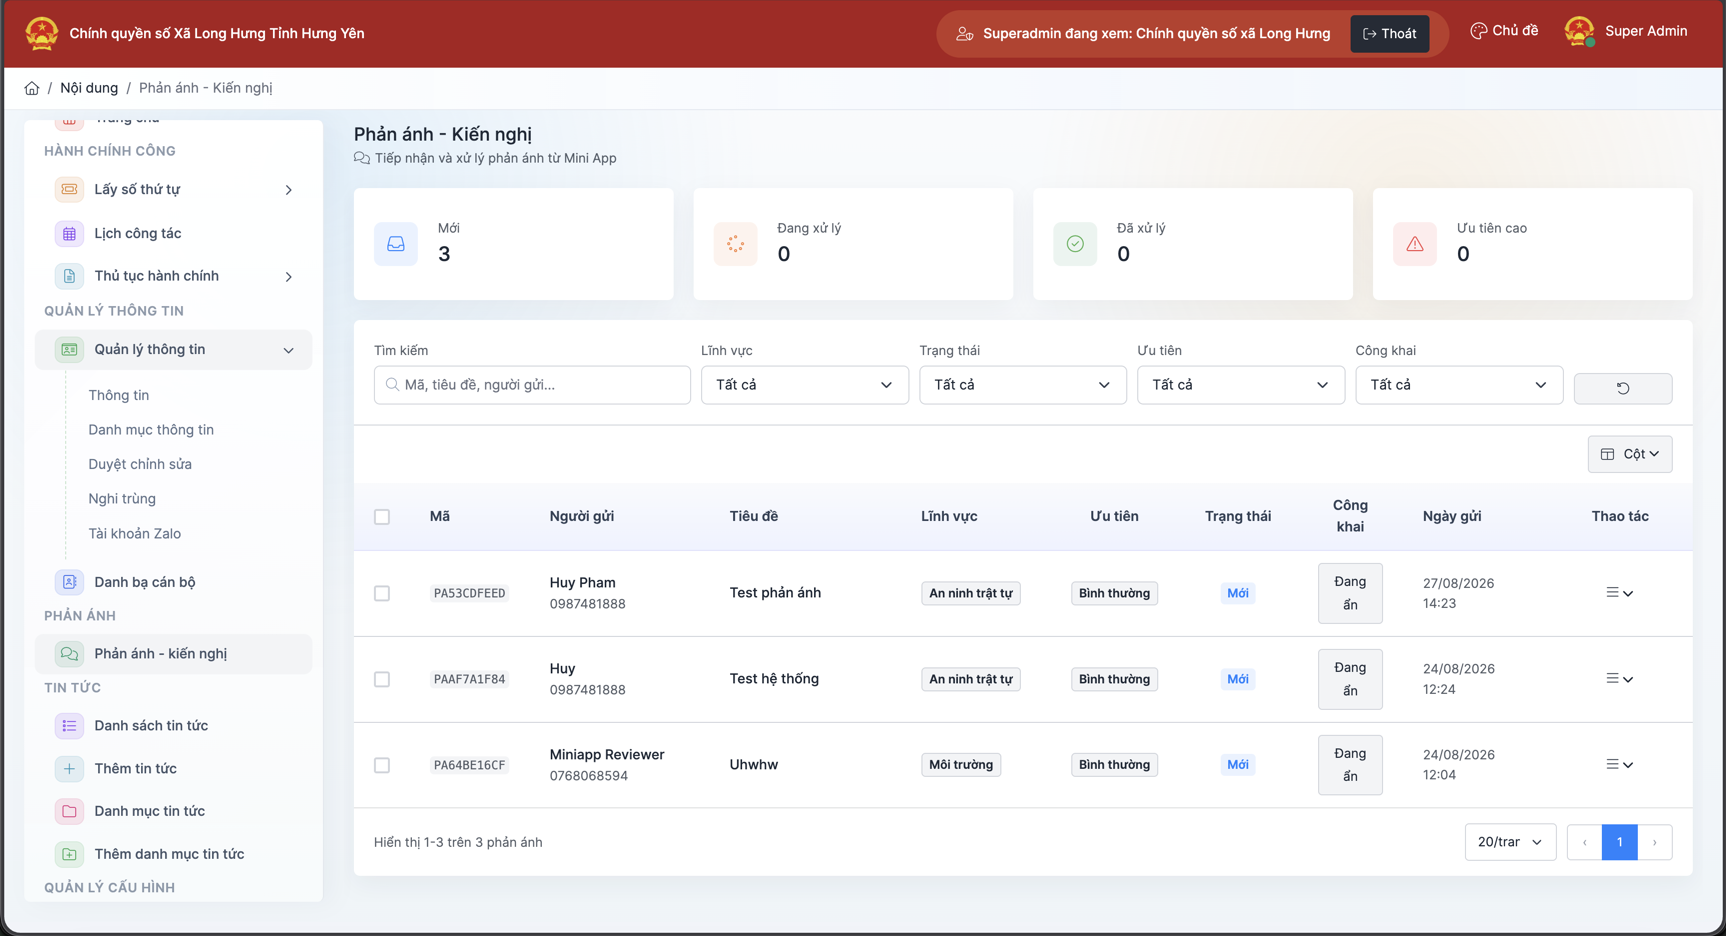
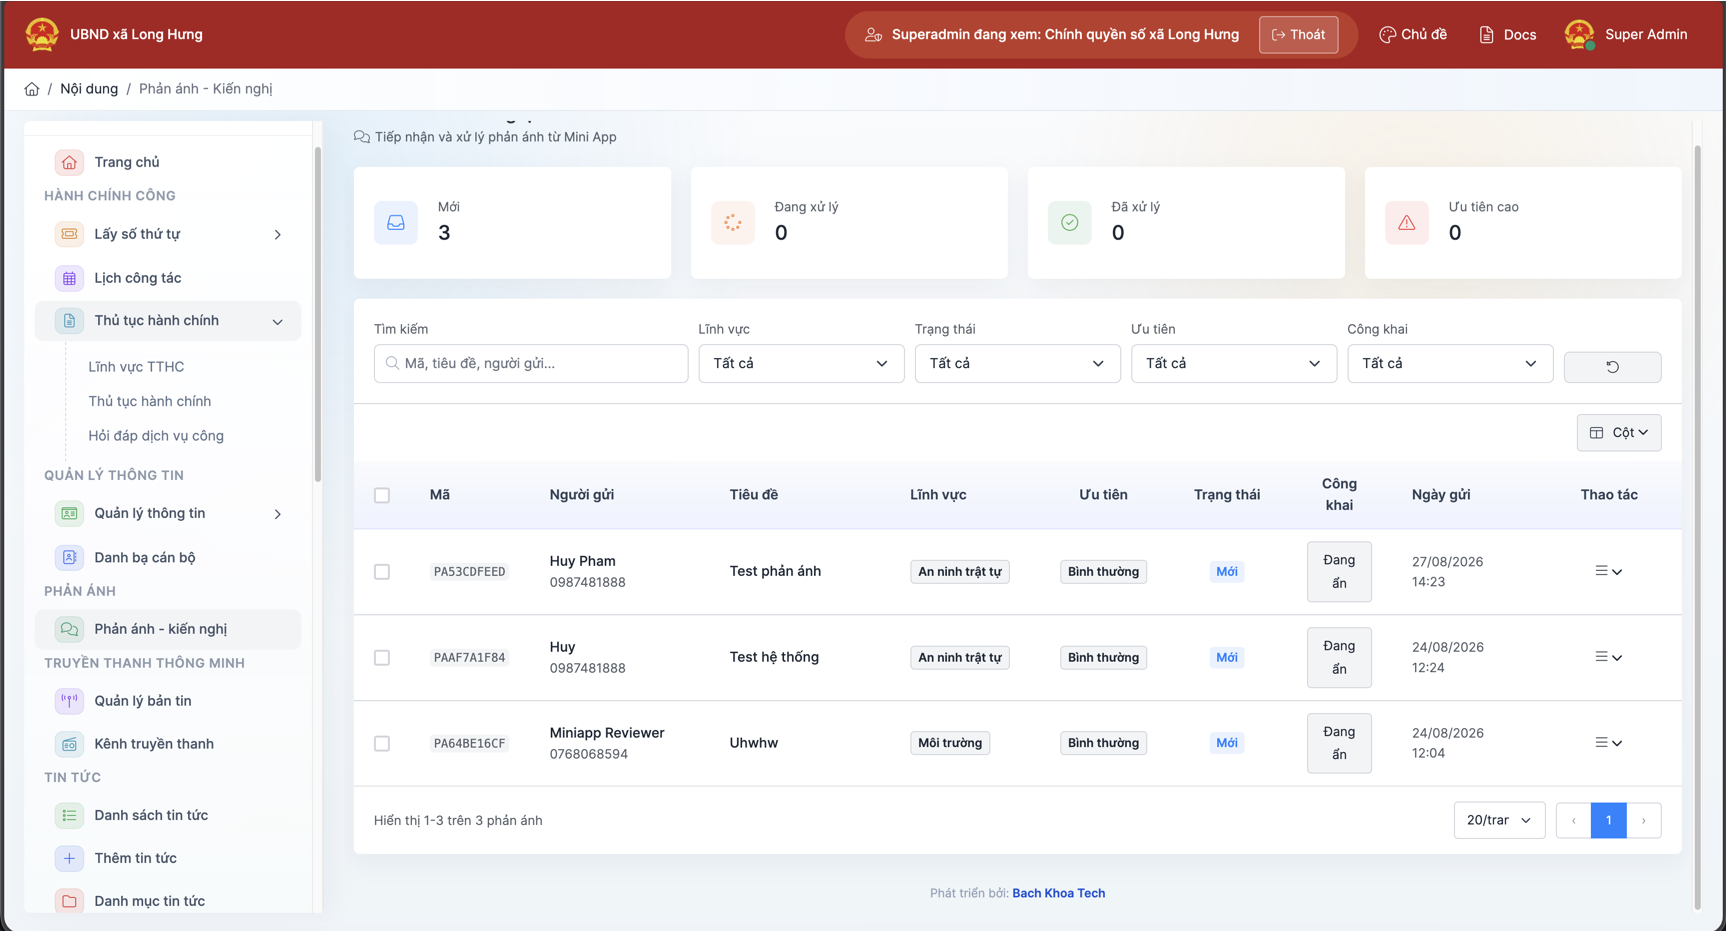
Add latest HCC admin screenshots

diff --git a/docs/admin-hcc-mini-app.md b/docs/admin-hcc-mini-app.md
@@ -50,6 +50,7 @@ sidebar_label: Hướng dẫn Admin HCC Mini App
 ## **2.1 Tổng quan số liệu**
 
 ![Tổng quan Dashboard](/img/admin/04-dashboard.png)
+![Biểu đồ và hoạt động Dashboard](/img/admin/04-dashboard-charts.png)
 
 * Hiển thị các chỉ số tổng quan của đơn vị (thẻ KPI), biểu đồ hoạt động theo thời gian, bản đồ vị trí và bảng số liệu nổi bật.
 
@@ -61,7 +62,6 @@ sidebar_label: Hướng dẫn Admin HCC Mini App
 
 * Đây là màn hình chỉ xem, không có thao tác chỉnh sửa.
 
-> 📷 **Ảnh hiện có:** Đã có ảnh Dashboard. Chỉ cần chụp lại nếu giao diện thực tế sau commit mới khác ảnh đang hiển thị.
 
 
 # **3\. Hành chính công**
@@ -109,7 +109,8 @@ sidebar_label: Hướng dẫn Admin HCC Mini App
 
 ## **3.5 Lĩnh vực thủ tục hành chính**
 
-> 📷 **Cần bổ sung ảnh:** Màn hình danh sách lĩnh vực TTHC, bộ lọc và menu thao tác Bật/Tắt, Sửa, Xóa.
+![Danh sách lĩnh vực TTHC](/img/admin/05-linh-vuc-tthc.png)
+![Form thêm lĩnh vực TTHC](/img/admin/06-them-linh-vuc-tthc.png)
 
 * Khai báo các lĩnh vực TTHC được hiển thị dưới dạng bộ lọc trên Mini App.
 
@@ -120,7 +121,7 @@ sidebar_label: Hướng dẫn Admin HCC Mini App
 
 ## **3.6 Thủ tục hành chính**
 
-> 📷 **Cần bổ sung ảnh:** Danh sách thủ tục và form thêm/sửa, đặc biệt các trường Link nộp trực tuyến, Cách mở và Ưu tiên hiển thị.
+![Danh sách thủ tục hành chính](/img/admin/07-thu-tuc-hanh-chinh.png)
 
 * Quản lý nội dung tra cứu TTHC trên Mini App: tên, mã TTHC quốc gia, lĩnh vực, mức độ dịch vụ công và tóm tắt.
 
@@ -133,7 +134,7 @@ sidebar_label: Hướng dẫn Admin HCC Mini App
 
 ## **3.7 Hỏi đáp dịch vụ công**
 
-> 📷 **Cần bổ sung ảnh:** Danh sách câu hỏi và form Trả lời, gồm trạng thái, Công khai lên Mini App và Ghim thành FAQ.
+![Danh sách hỏi đáp dịch vụ công](/img/admin/08-hoi-dap-dich-vu-cong.png)
 
 * Tiếp nhận câu hỏi người dân gửi từ Mini App, tìm kiếm theo mã, tên, số điện thoại hoặc nội dung câu hỏi.
 
@@ -201,6 +202,7 @@ sidebar_label: Hướng dẫn Admin HCC Mini App
 ## **5.1 Xử lý phản ánh - kiến nghị**
 
 ![Xử lý phản ánh kiến nghị](/img/admin/15-phan-anh-kien-nghi.png)
+![Form xử lý phản ánh kiến nghị](/img/admin/15-phan-anh-kien-nghi-xu-ly.png)
 
 * Danh sách phản ánh, kiến nghị của người dân gửi qua Mini App: người gửi, tiêu đề, lĩnh vực, mức độ ưu tiên (Thấp/Bình thường/Cao).
 
@@ -212,14 +214,13 @@ sidebar_label: Hướng dẫn Admin HCC Mini App
 
 * Khi xử lý có thể cập nhật mức ưu tiên, gán người xử lý và nhập nội dung phản hồi công dân.
 
-> 📷 **Nên cập nhật ảnh:** Ảnh xử lý phản ánh hiện có chưa thể hiện tọa độ/Google Maps, người xử lý và nội dung phản hồi.
 
 
 ## **5.2 Truyền thanh thông minh**
 
 ### **5.2.1 Kênh truyền thanh**
 
-> 📷 **Cần bổ sung ảnh:** Màn hình danh sách kênh và form thêm/sửa kênh, gồm Stream URL, icon, thứ tự và trạng thái.
+![Danh sách kênh truyền thanh](/img/admin/25-kenh-truyen-thanh.png)
 
 * Tạo và quản lý các kênh hiển thị trên Mini App: tên, slug, mô tả, icon, địa chỉ stream, thứ tự và trạng thái hoạt động.
 
@@ -227,7 +228,7 @@ sidebar_label: Hướng dẫn Admin HCC Mini App
 
 ### **5.2.2 Quản lý bản tin**
 
-> 📷 **Cần bổ sung ảnh:** Màn hình danh sách bản tin và form thêm/sửa, gồm file âm thanh/URL âm thanh, thời gian phát và đánh dấu khẩn.
+![Danh sách bản tin truyền thanh](/img/admin/26-ban-tin-truyen-thanh.png)
 
 * Tạo bản tin truyền thanh với tiêu đề, kênh, nhóm nội dung, tóm tắt và nội dung đọc kèm.
 
@@ -263,6 +264,7 @@ sidebar_label: Hướng dẫn Admin HCC Mini App
 ![Bài viết nổi bật trên trang chủ Mini App](/img/admin/19-trang-chu-bai-noi-bat.png)
 ![Hàng nút tắt trên trang chủ Mini App](/img/admin/20-trang-chu-nut-tat.png)
 ![Khối thống kê trên trang chủ Mini App](/img/admin/21-trang-chu-thong-ke.png)
+![Cấu hình khối truyền thanh trên trang chủ](/img/admin/19-noi-dung-truyen-thanh.png)
 
 * Chọn các bài viết nổi bật để hiển thị ở trang chủ Mini App.
 
@@ -272,7 +274,6 @@ sidebar_label: Hướng dẫn Admin HCC Mini App
 
 * Các kênh truyền thanh trong khối có thể thêm, xóa và sắp xếp thứ tự riêng cho trang chủ.
 
-> 📷 **Nên bổ sung ảnh:** Khu vực cấu hình khối Truyền thanh trong màn hình Nội dung trang chủ Mini App.
 
 
 
@@ -307,7 +308,6 @@ sidebar_label: Hướng dẫn Admin HCC Mini App
 
 * Kéo-thả để sắp xếp thứ tự, bật/tắt hiển thị từng mục.
 
-> 📷 **Nên cập nhật ảnh:** Ảnh hiện có chưa thể hiện rõ mô tả, tải icon/Font Icon và liên kết tới lĩnh vực hoặc thủ tục TTHC.
 
 
 ## **7.4 Thông báo**
@@ -426,7 +426,6 @@ sidebar_label: Hướng dẫn Admin HCC Mini App
 
 * Danh mục quyền mới bao gồm các màn hình lĩnh vực TTHC, thủ tục hành chính, hỏi đáp dịch vụ công và truyền thanh thông minh; mỗi nhóm có quyền xem, thêm, sửa, xóa hoặc thao tác riêng như xuất bản/trả lời.
 
-> 📷 **Nên bổ sung ảnh:** Màn hình Vai trò & quyền hoặc Phân quyền tài khoản, có các nhóm quyền mới.
 
 *Lưu ý: Chỉ tài khoản có quyền "users.assign\_permission" mới thấy và thao tác được màn hình Phân quyền.*
 
